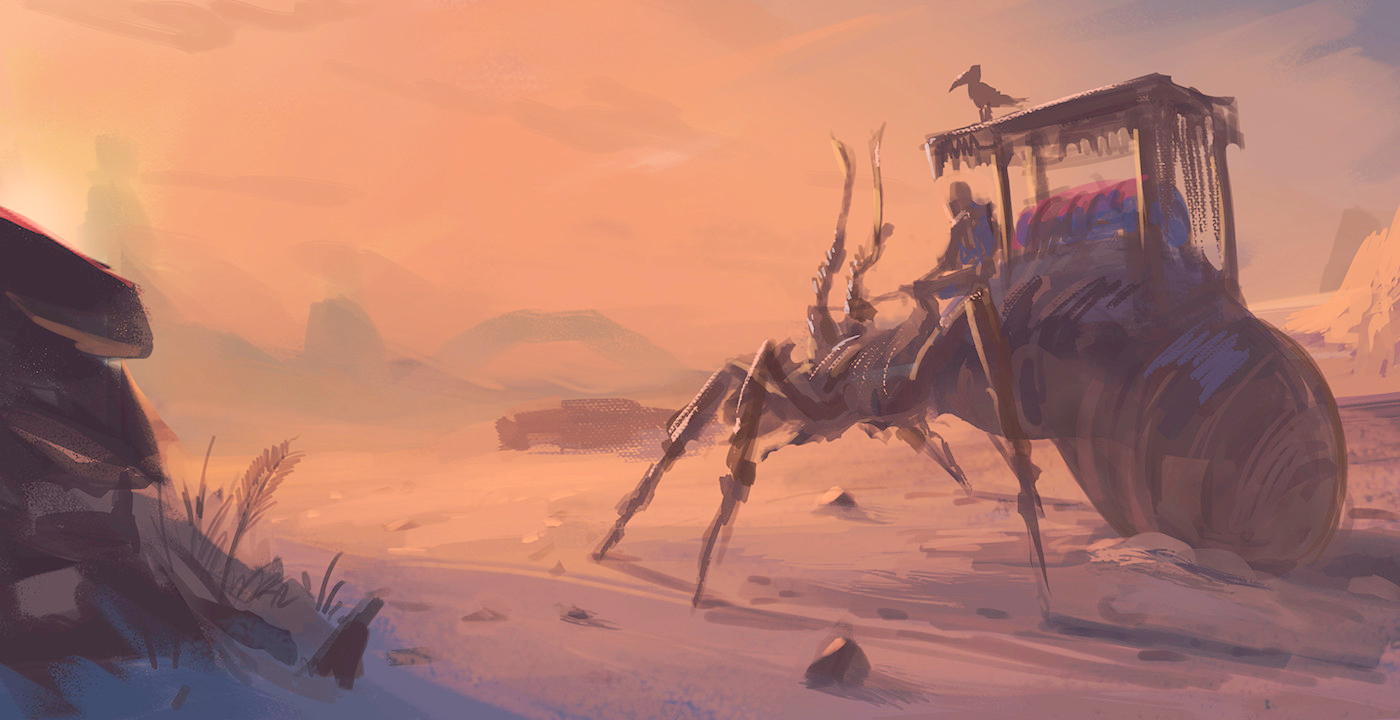
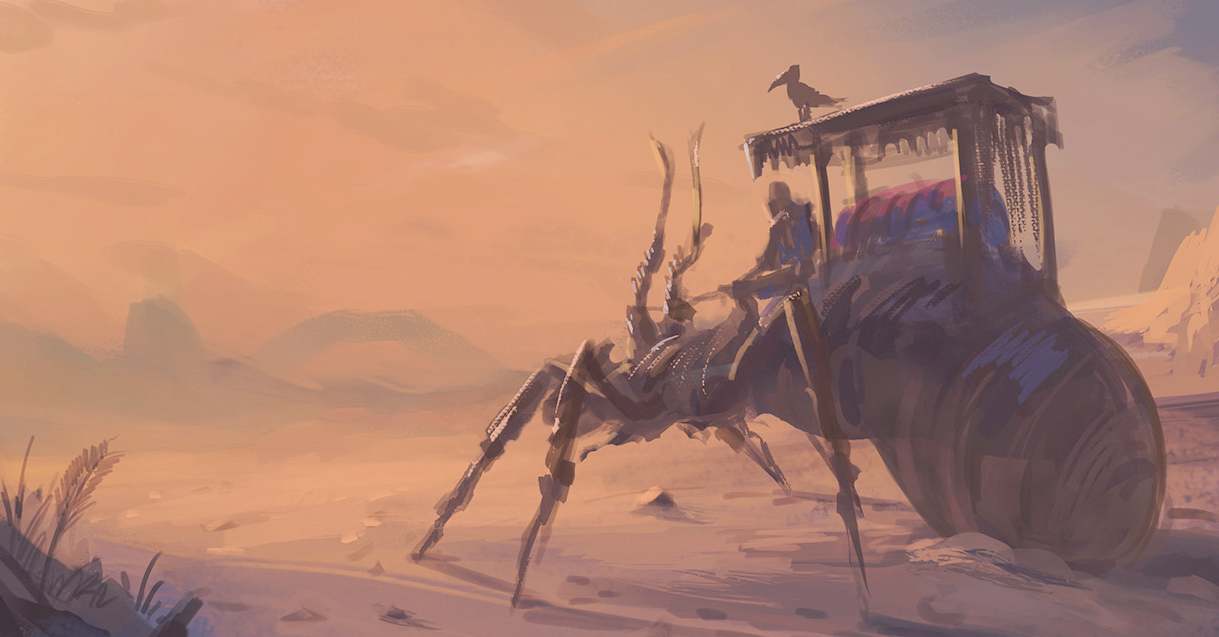
small fix

diff --git a/lang/ru.js b/lang/ru.js
@@ -68,7 +68,7 @@ export default {
   feedbackText1: 'Оставайся на связи и получай последние новости первым!',
   feedbackTitle2: 'Нашел ошибку?',
   feedbackText2: 'Сообщий о ней нам в нашем gitgub репозитории и мы ее исправим!',
-  feedbackBtn2: 'Сообщить об ошибке',
+  feedbackBtn2: 'Сообщить',
 
   // ----------------------------- GAMES PAGE
   gamesTitle1: 'Все битвы:',

diff --git a/lang/en.js b/lang/en.js
@@ -67,7 +67,7 @@ export default {
   feedbackText1: 'Stay in touch and get latest news first!',
   feedbackTitle2: 'Found an issue?',
   feedbackText2: 'Tell us on our github repo and we will fix it!',
-  feedbackBtn2: 'Report issue',
+  feedbackBtn2: 'Report',
 
   // ----------------------------- GAMES PAGE
   gamesTitle1: 'All battles:',

diff --git a/components/indexPage/parallaxSection.vue b/components/indexPage/parallaxSection.vue
@@ -1,6 +1,6 @@
 <template>
   <section>
-    <v-parallax class="parallax" src="/img/bg-test2.jpg" height="700"
+    <v-parallax class="parallax" src="/img/bg-test.jpg" height="700"
       ><v-container :fluid="false"
         ><v-row class="justify-center align-start"
           ><v-col class="mb-4" cols="12" md="6"

diff --git a/nuxt.config.js b/nuxt.config.js
@@ -48,7 +48,6 @@ module.exports = {
 
   css: ['~/assets/style/app.styl', '~/assets/style/fonts.css', '~/assets/style/textures.css'],
 
-
   /*
   ** Plugins to load before mounting the App
   */
